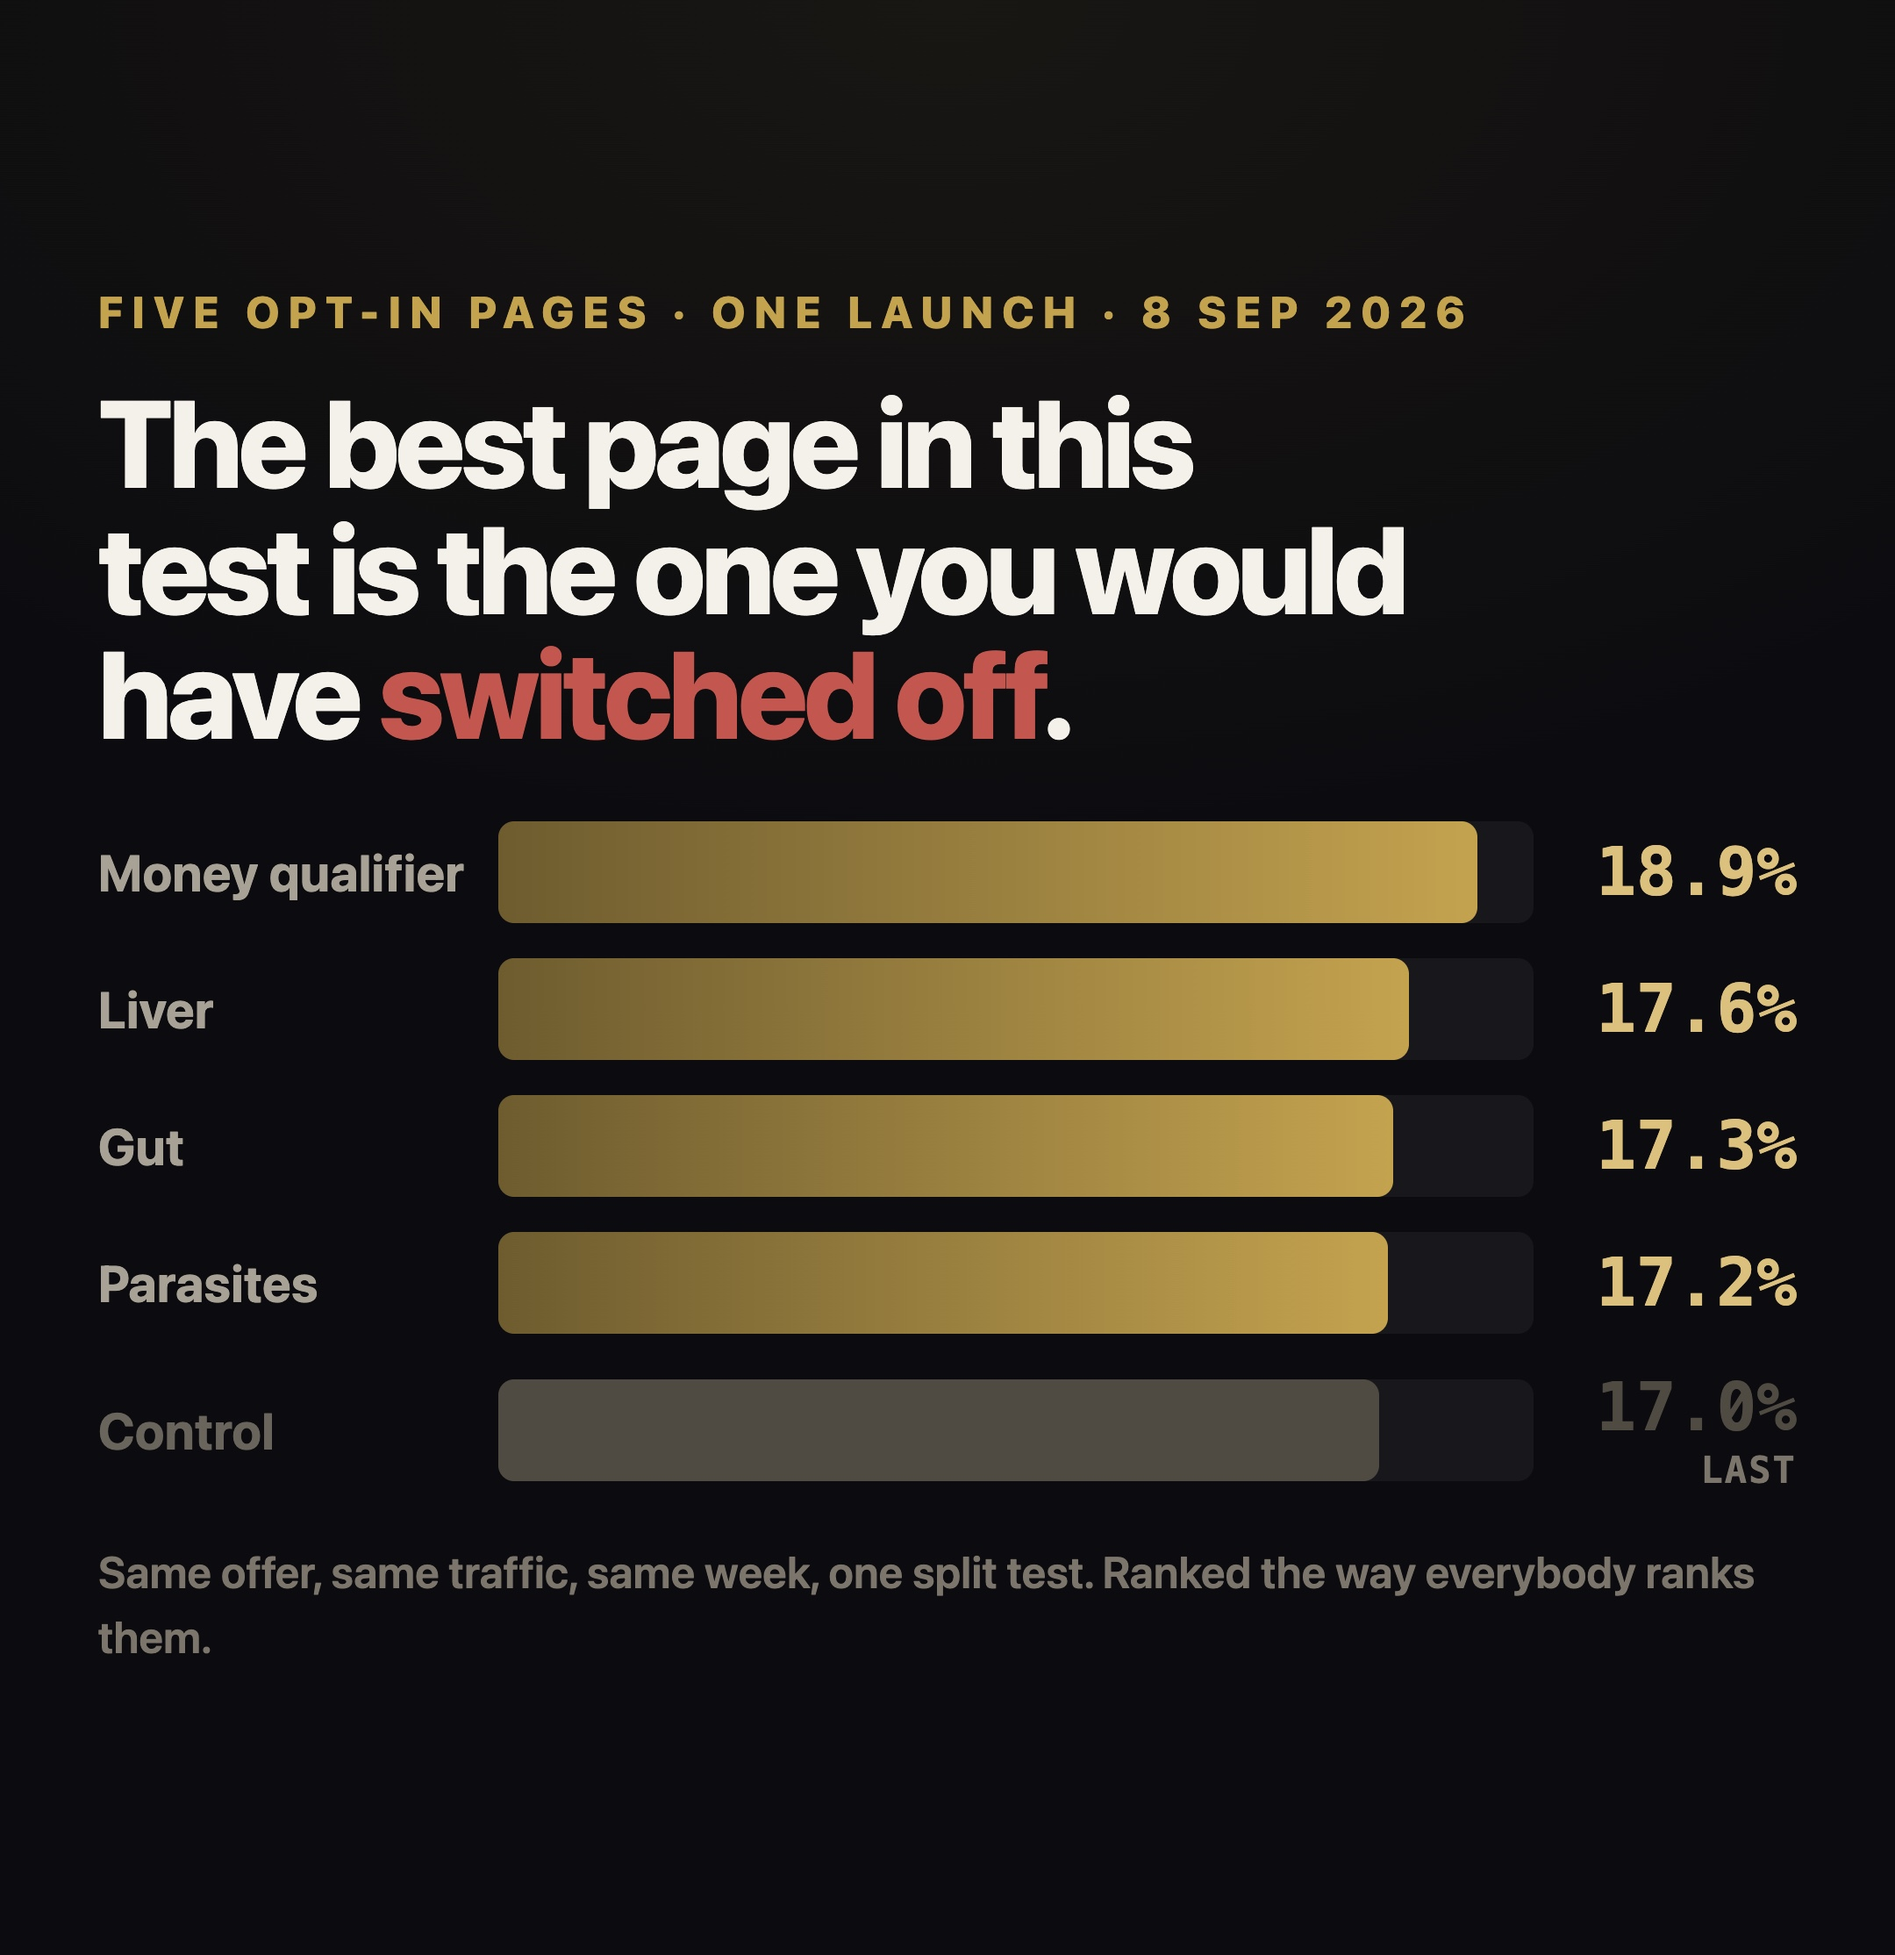
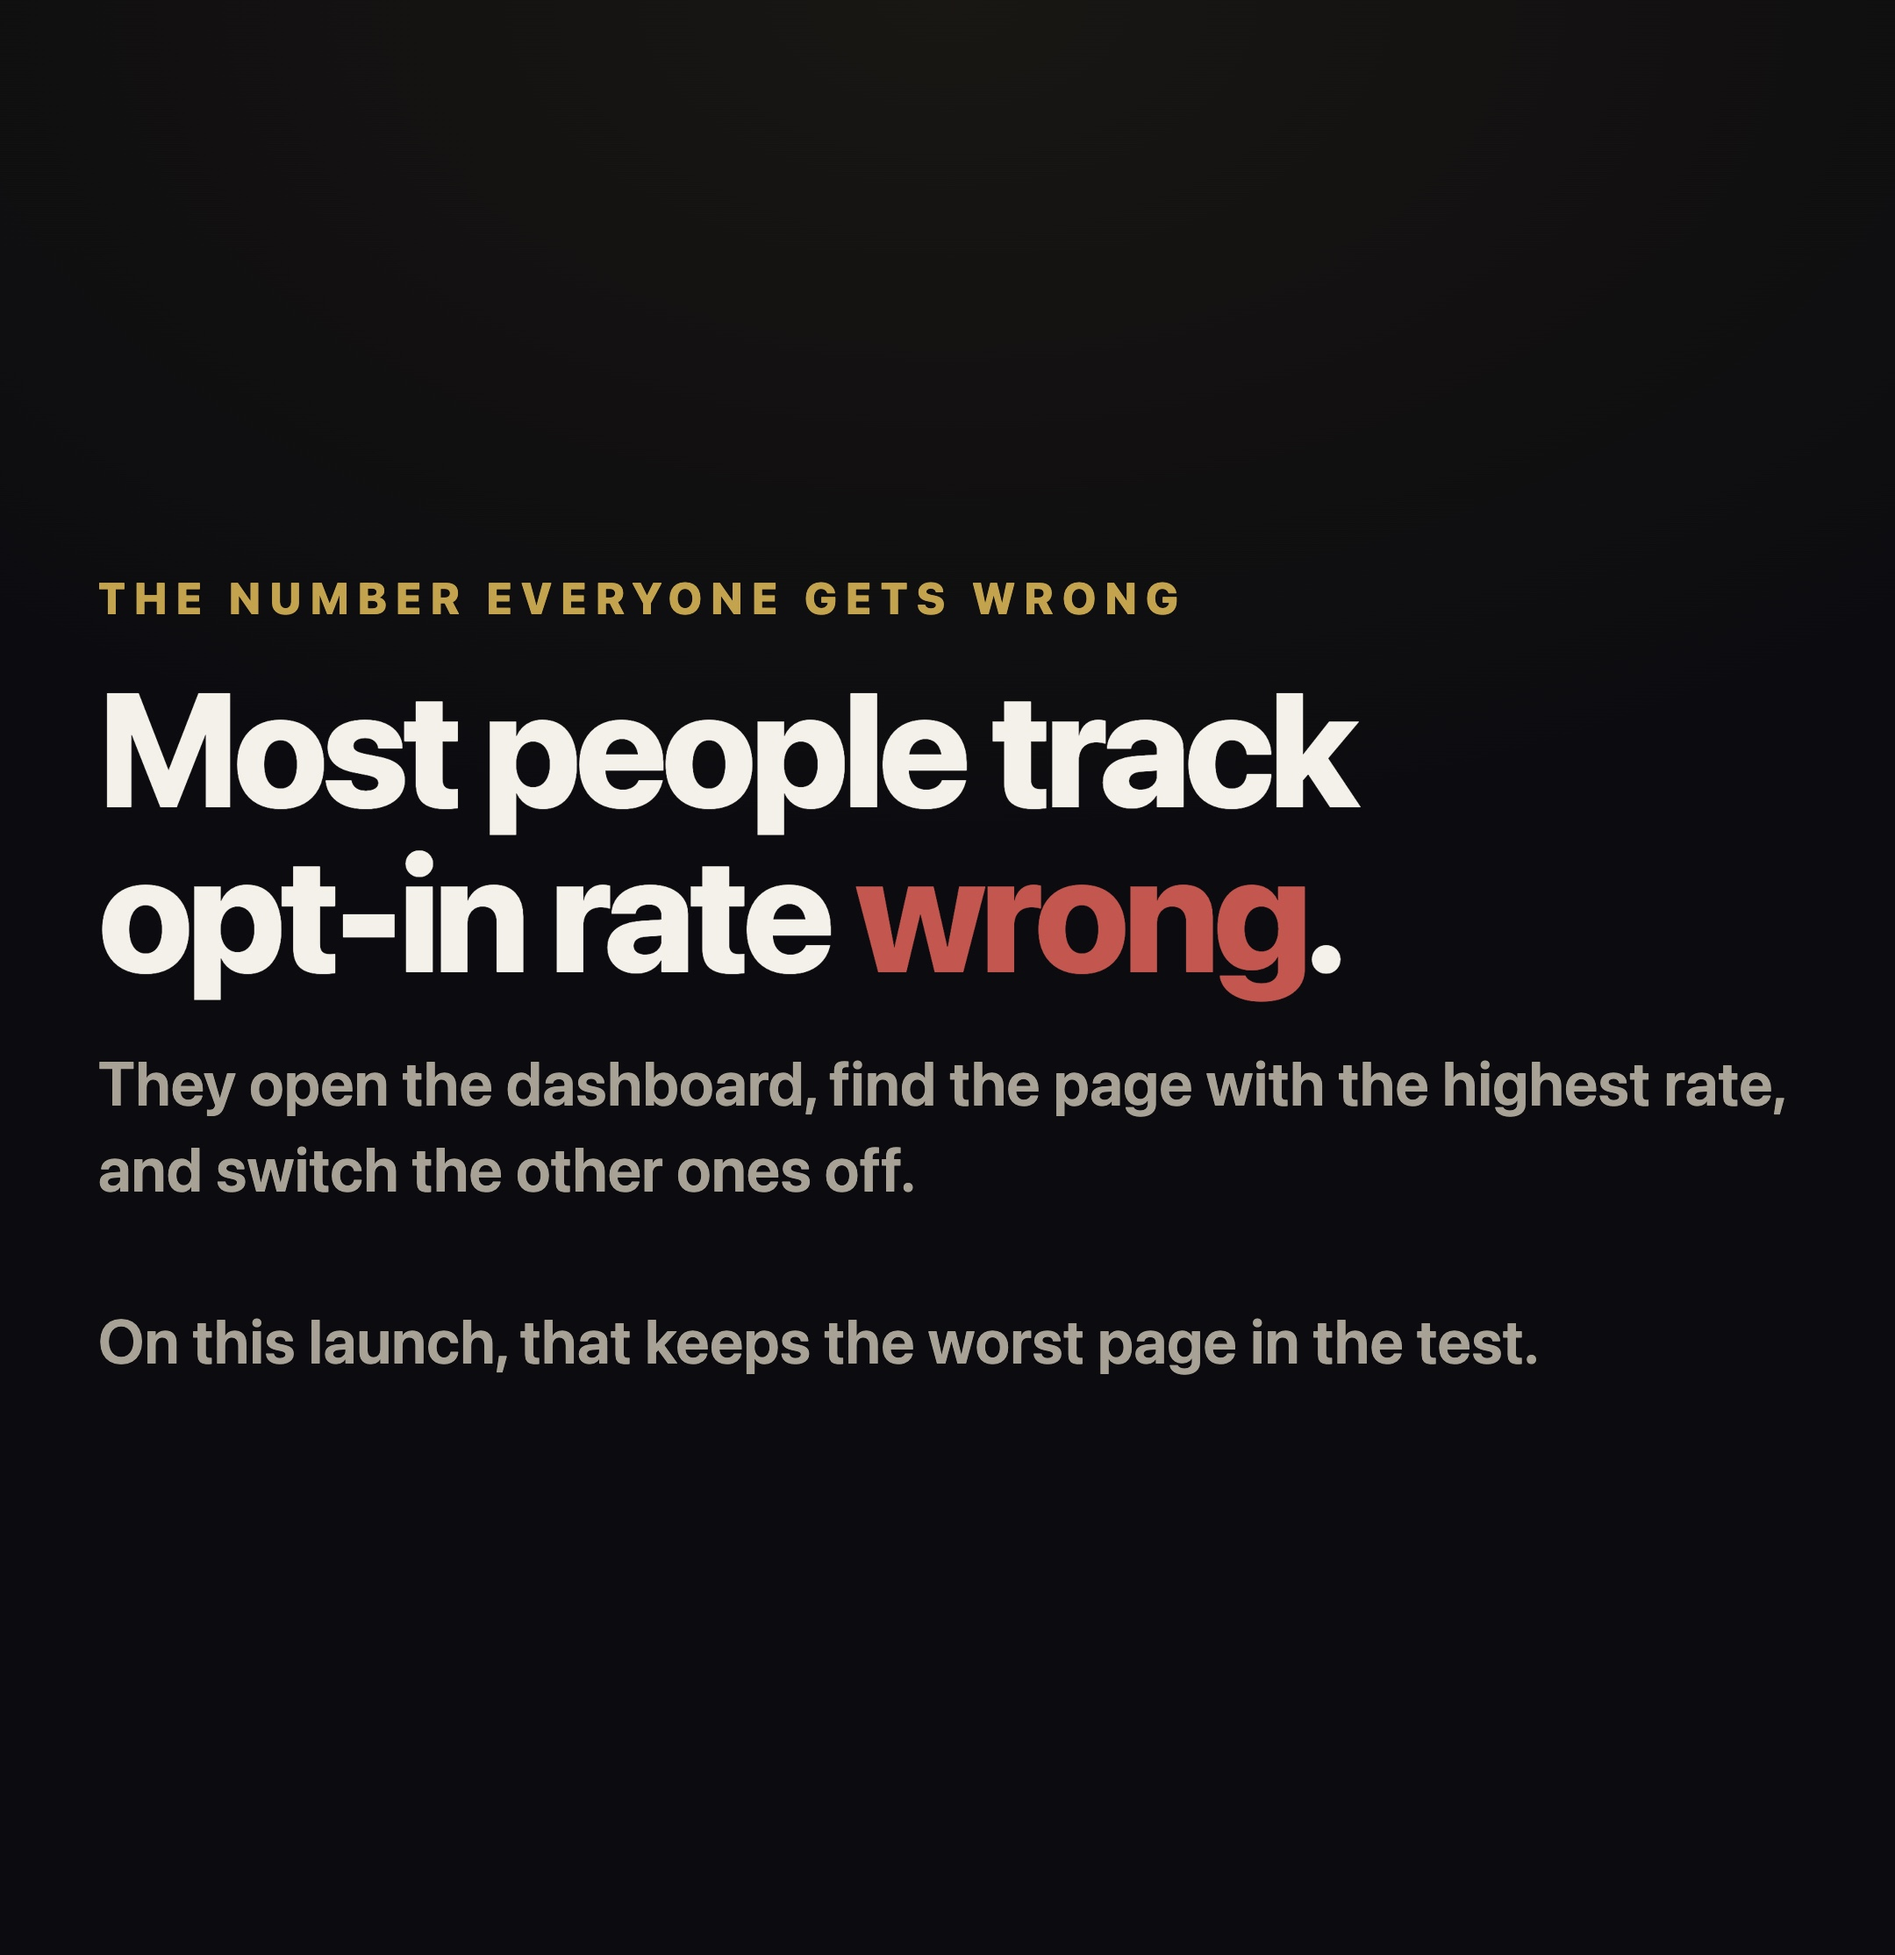
optin-rate: open on the claim, not on a chart
Ziyad asked twice for the hook to be 'most people track opt-in rate wrong'.
Slide 1 now says exactly that and slide 2 is what they do about it, with
the ranking and the 1.9 point spread folded into it.

Claude-Session: https://claude.ai/code/session_01JyUvhGiU74myjNDStH3gj5

diff --git a/frames-optinrate.html b/frames-optinrate.html
@@ -67,30 +67,25 @@
 </head>
 <body>
 
-<!-- o1 · HOOK: the exhibit, and the reversal, up front -->
+<!-- o1 · HOOK: the claim, in his words -->
 <div class="f" id="o1">
-  <div class="eb">Five opt-in pages &middot; one launch &middot; 8 Sep 2026</div>
-  <h1 class="sm">The best page in this test is the one you would have <em>switched off</em>.</h1>
-  <div class="chart" style="margin-top:38px">
-    <div class="row"><div class="lbl">Money qualifier</div><div class="track"><div class="fill" style="width:94.5%"><div class="solid"></div></div></div><div class="val">18.9%</div></div>
-    <div class="row"><div class="lbl">Liver</div><div class="track"><div class="fill" style="width:88.0%"><div class="solid"></div></div></div><div class="val">17.6%</div></div>
-    <div class="row"><div class="lbl">Gut</div><div class="track"><div class="fill" style="width:86.5%"><div class="solid"></div></div></div><div class="val">17.3%</div></div>
-    <div class="row"><div class="lbl">Parasites</div><div class="track"><div class="fill" style="width:86.0%"><div class="solid"></div></div></div><div class="val">17.2%</div></div>
-    <div class="row dead"><div class="lbl">Control</div><div class="track"><div class="fill" style="width:85.0%"><div class="solid"></div></div></div><div class="val">17.0%<i>LAST</i></div></div>
-  </div>
-  <div class="note">Same offer, same traffic, same week, one split test. Ranked the way everybody ranks them.</div>
+  <div class="eb">The number everyone gets wrong</div>
+  <h1>Most people track opt-in rate <em>wrong</em>.</h1>
+  <div class="sub">They open the dashboard, find the page with the highest rate, and switch the other ones off.<br><br>On this launch, that keeps the worst page in the test.</div>
 </div>
 
 <!-- o2 · WHAT MOST PEOPLE DO -->
 <div class="f" id="o2">
-  <div class="eb">What everyone does</div>
-  <h1 class="sm">Rank by opt-in rate.<br>Keep the top. Kill the bottom.</h1>
-  <div style="margin-top:52px;display:flex;align-items:baseline;gap:26px">
-    <div style="font-family:var(--mono);font-size:150px;font-weight:800;color:var(--gold);letter-spacing:-.04em;line-height:1">1.9</div>
-    <div style="font-size:42px;font-weight:800;color:var(--mut)">points</div>
+  <div class="eb">What everyone does &middot; five pages &middot; 8 Sep 2026</div>
+  <h1 class="sm">Highest rate wins.<br>Keep the top. Kill the bottom.</h1>
+  <div class="chart" style="margin-top:36px">
+    <div class="row"><div class="lbl">Money qualifier</div><div class="track"><div class="fill" style="width:94.5%"><div class="solid"></div></div></div><div class="val">18.9%<i>KEEP</i></div></div>
+    <div class="row"><div class="lbl">Liver</div><div class="track"><div class="fill" style="width:88.0%"><div class="solid"></div></div></div><div class="val">17.6%</div></div>
+    <div class="row"><div class="lbl">Gut</div><div class="track"><div class="fill" style="width:86.5%"><div class="solid"></div></div></div><div class="val">17.3%</div></div>
+    <div class="row"><div class="lbl">Parasites</div><div class="track"><div class="fill" style="width:86.0%"><div class="solid"></div></div></div><div class="val">17.2%</div></div>
+    <div class="row dead"><div class="lbl">Control</div><div class="track"><div class="fill" style="width:85.0%"><div class="solid"></div></div></div><div class="val">17.0%<i>KILL</i></div></div>
   </div>
-  <div class="sub" style="margin-top:18px">Top page to bottom page, that is the entire spread. Across 4,262 views. That is what the decision gets made on.</div>
-  <div class="note">Third test in a row where changing the headline barely moved this number.</div>
+  <div class="note">Same offer, same traffic, same week. Top to bottom the whole spread is 1.9 points across 4,262 views. That is what the decision gets made on.</div>
 </div>
 
 <!-- o3 · WHY IT IS WRONG, part one: the flip -->

diff --git a/index.html b/index.html
@@ -190,8 +190,8 @@
     'optin-rate': {
       name: 'Opt-in rate \u00b7 the page everyone would switch off',
       beats: [
-        {img:'img/opt1.jpg', s:"Five opt-in pages, one launch, eighth of September. Same offer, same traffic, same week. And the best page in this test is the one you'd have switched off."},
-        {img:'img/opt2.jpg', s:"Because here's what everyone does. Rank them by opt-in rate, keep the top one, kill the bottom one. Top page to bottom page, the whole spread is one point nine points across four thousand two hundred views. That's what the decision gets made on."},
+        {img:'img/opt1.jpg', s:"Most people track opt-in rate wrong. They open the dashboard, find the page with the highest rate, and switch the other ones off. On this launch, that keeps the worst page in the test."},
+        {img:'img/opt2.jpg', s:"Here are five pages from one launch. Same offer, same traffic, same week. Highest rate wins, so you keep the money qualifier at eighteen nine and you kill the control at seventeen. And the whole spread, top to bottom, is one point nine points across four thousand two hundred views. That's what the decision gets made on."},
         {img:'img/opt3.jpg', s:"Now the same five pages, ranked on who actually qualified. It's exactly upside down. The page that won on opt-in rate came last on quality."},
         {img:'img/opt4.jpg', s:"Head to head. One point nine points fewer opt-ins, and nearly twice the qualified leads. Twenty three against forty three, on seven hundred and ninety five views against eight hundred and seventy one."},
         {img:'img/opt5.jpg', s:"That's why the usual number can't tell you anything. Opt-in rate moved one point nine points. Quality moved nearly double. You're optimising the flat line."},
